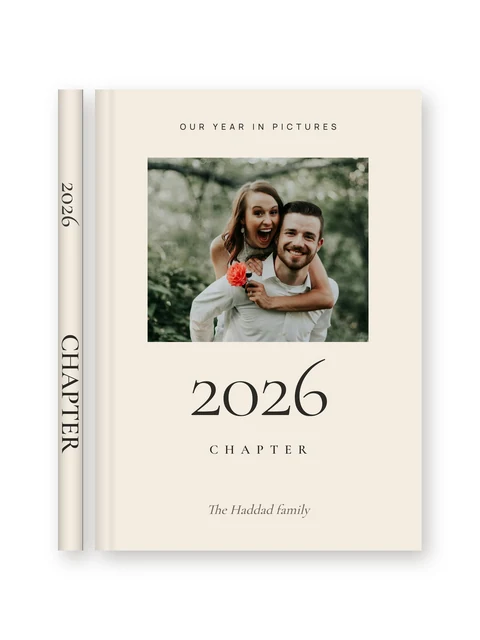
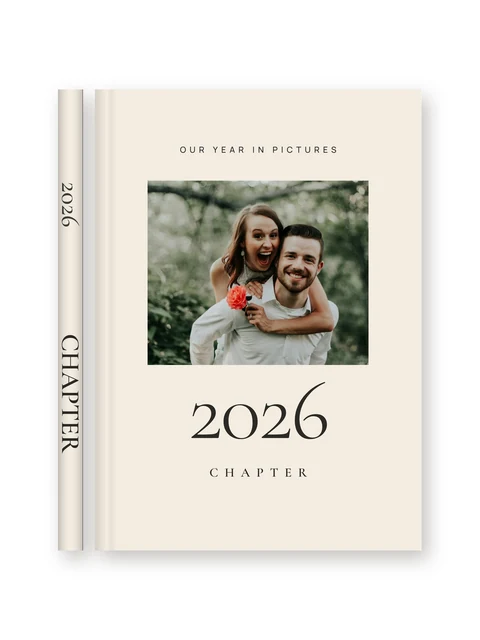
Templates: no family name on the year covers, "in a book" on Big Numbers
2026 Chapter loses its family name (the layout moved down to keep it
balanced); 2026 Big Numbers too, and reads "in a book" (spine: IN A
BOOK) instead of "our year".

Claude-Session: https://claude.ai/code/session_019iW3qNmH4N4x87DfLWtU9k

Changed region(s): [[0.2812, 0.1875, 0.7812, 0.75], [0.4375, 0.7812, 0.6562, 0.8125]]

diff --git a/frontend/src/lib/coverThemes.js b/frontend/src/lib/coverThemes.js
@@ -679,7 +679,7 @@ export const COVER_THEMES = [
     templates: [
       {
         // The year's album, sober: a photo, the year very large, "CHAPTER"
-        // in spaced capitals under it, the family's name in italics.
+        // in spaced capitals under it.
         id: "year-2026-chapter",
         name: "2026 Chapter",
         landingImage: "/theme-covers/year-2026-chapter.webp",
@@ -695,7 +695,7 @@ export const COVER_THEMES = [
           title_text_align: "center",
           title_font_size: 96,
           title_fit_height: true,
-          title_x: 0.08, title_y: 0.56, title_w: 0.84, title_h: 0.2,
+          title_x: 0.08, title_y: 0.61, title_w: 0.84, title_h: 0.2,
           spine_title_font: CORMORANT,
           spine_title_size: 26,
           spine_title_weight: "500",
@@ -706,10 +706,9 @@ export const COVER_THEMES = [
           spine_caption_weight: "600",
           spine_caption_y: 0.62,
           extra_items: [
-            textItem("eyebrow", "OUR YEAR IN PICTURES", { x: 0.1, y: 0.07, w: 0.8, h: 0.035, font: MANROPE, font_weight: "500", font_size: 11, letter_spacing: 0.42, color: "#2B2A26", text_align: "center" }),
-            photoGridItem(0, { x: 0.161, y: 0.148, w: 0.678, h: 0.4 }),
-            textItem("chapter", "CHAPTER", { x: 0.1, y: 0.765, w: 0.8, h: 0.045, font: CORMORANT, font_weight: "600", font_size: 17, letter_spacing: 0.5, color: "#2B2A26", text_align: "center" }),
-            textItem("name", "The Haddad family", { x: 0.1, y: 0.895, w: 0.8, h: 0.045, font: CORMORANT, font_style: "italic", font_weight: "500", font_size: 18, color: "#6D6558", text_align: "center" }),
+            textItem("eyebrow", "OUR YEAR IN PICTURES", { x: 0.1, y: 0.12, w: 0.8, h: 0.035, font: MANROPE, font_weight: "500", font_size: 11, letter_spacing: 0.42, color: "#2B2A26", text_align: "center" }),
+            photoGridItem(0, { x: 0.161, y: 0.198, w: 0.678, h: 0.4 }),
+            textItem("chapter", "CHAPTER", { x: 0.1, y: 0.815, w: 0.8, h: 0.045, font: CORMORANT, font_weight: "600", font_size: 17, letter_spacing: 0.5, color: "#2B2A26", text_align: "center" }),
           ],
         },
       },
@@ -750,11 +749,11 @@ export const COVER_THEMES = [
       },
       {
         // The year's album, graphic: "20" and "26" very large, offset on
-        // two lines, "our year" in italics and the family's name. No photo.
+        // two lines, "in a book" in italics. No photo.
         id: "year-2026-numbers",
         name: "2026 Big Numbers",
         landingImage: "/theme-covers/year-2026-numbers.webp",
-        title: "our year",
+        title: "in a book",
         cover: {
           bg_color: "#263A4F",
           accent_color: "#EFE6D6",
@@ -767,13 +766,13 @@ export const COVER_THEMES = [
           title_text_align: "left",
           title_font_size: 30,
           title_fit_height: true,
-          title_x: 0.09, title_y: 0.8, title_w: 0.5, title_h: 0.075,
+          title_x: 0.09, title_y: 0.84, title_w: 0.5, title_h: 0.075,
           spine_title_text: "2026",
           spine_title_font: CORMORANT,
           spine_title_size: 26,
           spine_title_weight: "500",
           spine_title_y: 0.3,
-          spine_caption: "OUR YEAR",
+          spine_caption: "IN A BOOK",
           spine_caption_font: CORMORANT,
           spine_caption_size: 12,
           spine_caption_weight: "600",
@@ -781,7 +780,6 @@ export const COVER_THEMES = [
           extra_items: [
             textItem("year-start", "20", { x: 0.06, y: 0.0, w: 0.8, h: 0.5, font: CORMORANT, font_weight: "400", font_size: 262, color: "#EFE6D6" }),
             textItem("year-end", "26", { x: 0.28, y: 0.3, w: 0.7, h: 0.5, font: CORMORANT, font_weight: "400", font_size: 262, color: "#EFE6D6" }),
-            textItem("name", "THE KHOURY FAMILY", { x: 0.09, y: 0.885, w: 0.8, h: 0.035, font: MANROPE, font_weight: "500", font_size: 11, letter_spacing: 0.4, color: "#EFE6D6" }),
           ],
         },
       },
